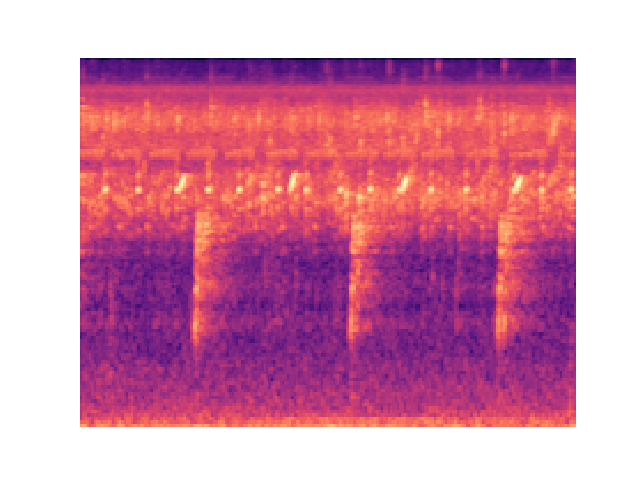
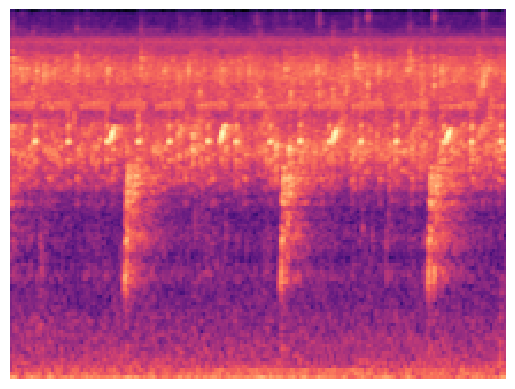
featL new images

diff --git a/ingest.py b/ingest.py
@@ -210,9 +210,9 @@ indexes = np.lexsort((coords[:, 0], -coords[:, 1]))
 
 images = np.array(data['path'])[indexes]
 
-paths = []
+df_list = []
 
-for item in images:
+for item, coord in zip(images, coords):
     
     plt.figure(2,2)
     
@@ -233,17 +233,20 @@ for item in images:
     
     filename = os.path.splitext(os.path.basename(item))[0]
     
-    paths.append(filename)
+    df_list.append({
+        'filename': filename,
+        'path': item,
+        'x': coord[0],
+        'y': coord[1]
+    })
     
-    plt.savefig('images/' + filename + '.png', transparent=True)
+    
+    plt.savefig('images/' + filename + '.png', bbox_inches='tight')
     
     plt.close()
 
 
-x = [coord[0] for coord in coords]
-y = [coord[1] for coord in coords]
-
-df = pd.DataFrame({'name':paths, 'x': x, 'y': y})
+df = pd.DataFrame(df_list)
 
 df.to_csv(os.getcwd() + '/images/muha_data.csv', index=False)
 
